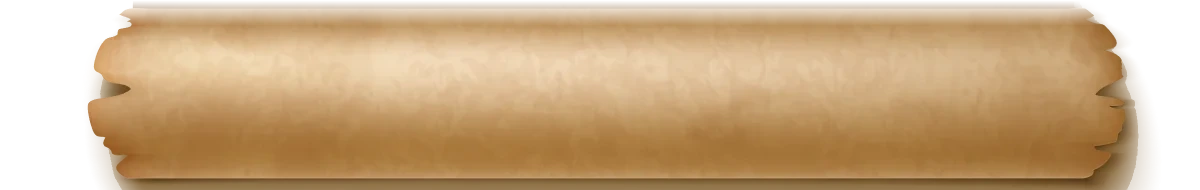
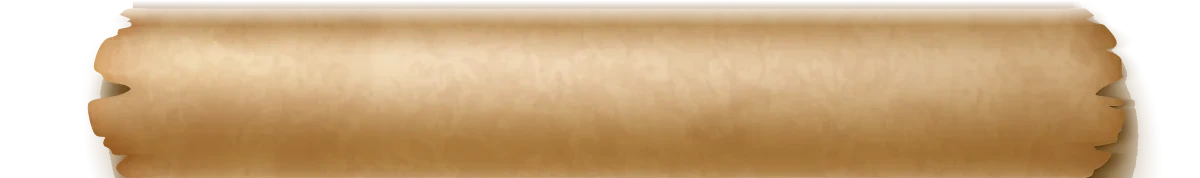
fix(ui): filtros con mas aire y rollos del papiro sin franjas rectas
- La fila Todos/Nuevos/Capturados/Faltantes gana 10px de padding superior en
  escritorio, que quedaba pegada al borde del papiro.
- El rollo superior sube a -48px: tapa la franja del hero que se veia por el
  margen transparente del webp.
- El rollo inferior se recorta a solo el cilindro (1200x178): las filas 178-190
  eran el borde de papel que se veia como un reborde recto. El papiro lleva
  margin-bottom 56px para que debajo se vea el mar de la escena.

diff --git a/src/styles/cazatesoros.css b/src/styles/cazatesoros.css
@@ -116,6 +116,9 @@ html.theme-cazatesoros .main-content {
   padding-top: 98px;
   /* Espacio para el rollo inferior. */
   padding-bottom: 260px;
+  /* El rollo inferior cierra la hoja, pero el papiro flota sobre el mar: debajo
+     de ese rollo tiene que verse la escena, no terminar pegado al documento. */
+  margin-bottom: 56px;
   padding-left: 96px;
   padding-right: 96px;
   /* Superficie continua: el papel es un degradado lateral que empalma con el
@@ -154,7 +157,10 @@ html.theme-cazatesoros .main-content::after {
 }
 
 html.theme-cazatesoros .main-content::before {
-  top: -24px;
+  /* El webp trae 17 de sus 105 filas transparentes arriba: con top -24px ese hueco
+     dejaba ver el hero como una franja plana sobre el rollo. Subirlo esos ~22px
+     (16% de su alto) hace que el cuerpo del rollo tape la franja. */
+  top: -48px;
   /* Un poco mas ancho que el papel: si el rollo termina antes que el borde
      rasgado se ven dos papeles distintos en las esquinas. */
   width: 128%;
@@ -166,7 +172,9 @@ html.theme-cazatesoros .main-content::before {
 html.theme-cazatesoros .main-content::after {
   bottom: 0;
   width: 128%;
-  aspect-ratio: 1200 / 190;
+  /* El webp es solo el cilindro: la fila 178 hacia abajo era el borde de papel que
+     se veia como un reborde recto debajo del rollo. */
+  aspect-ratio: 1200 / 178;
   background-image: url('/papiro-rollo-inf.webp');
   background-position: center bottom;
 }

diff --git a/src/styles/index.css b/src/styles/index.css
@@ -2032,6 +2032,15 @@ html.theme-fortnitemares:is([data-fnm-phase='glow'],[data-fnm-phase='settle'],:n
   gap: 8px;
 }
 
+/* Escritorio: la fila de estado (Todos / Nuevos / Capturados / Faltantes) quedaba
+   pegada al borde superior del papiro. La fila de busqueda ya baja 12px con su
+   translateY, asi que aqui se le da el mismo aire arriba a la de estado. */
+@media (min-width: 769px) {
+  .status-pill-group {
+    padding-top: 10px;
+  }
+}
+
 .status-pill-btn {
   padding: 6px 18px;
   border-radius: 9999px;
